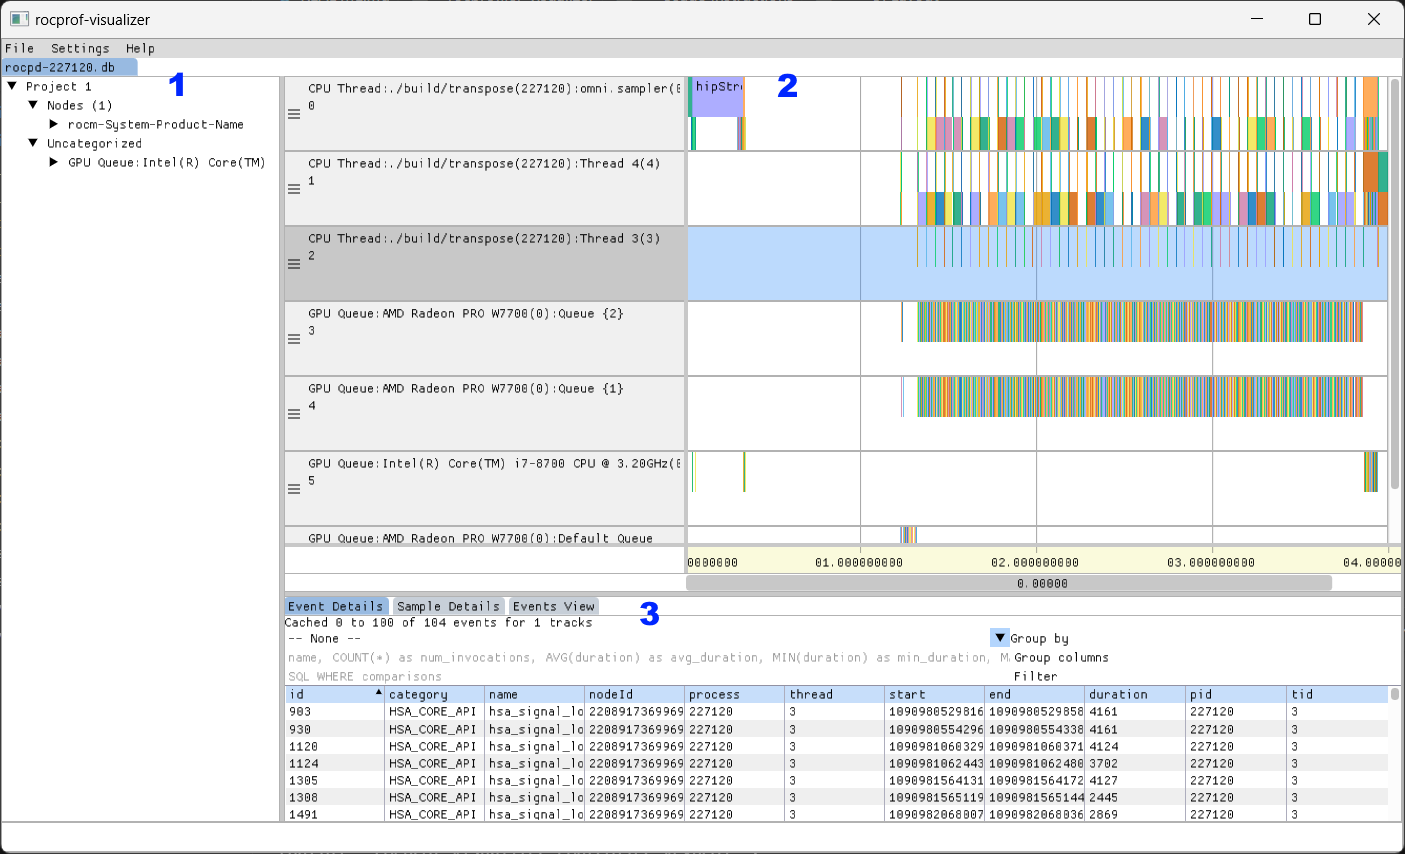
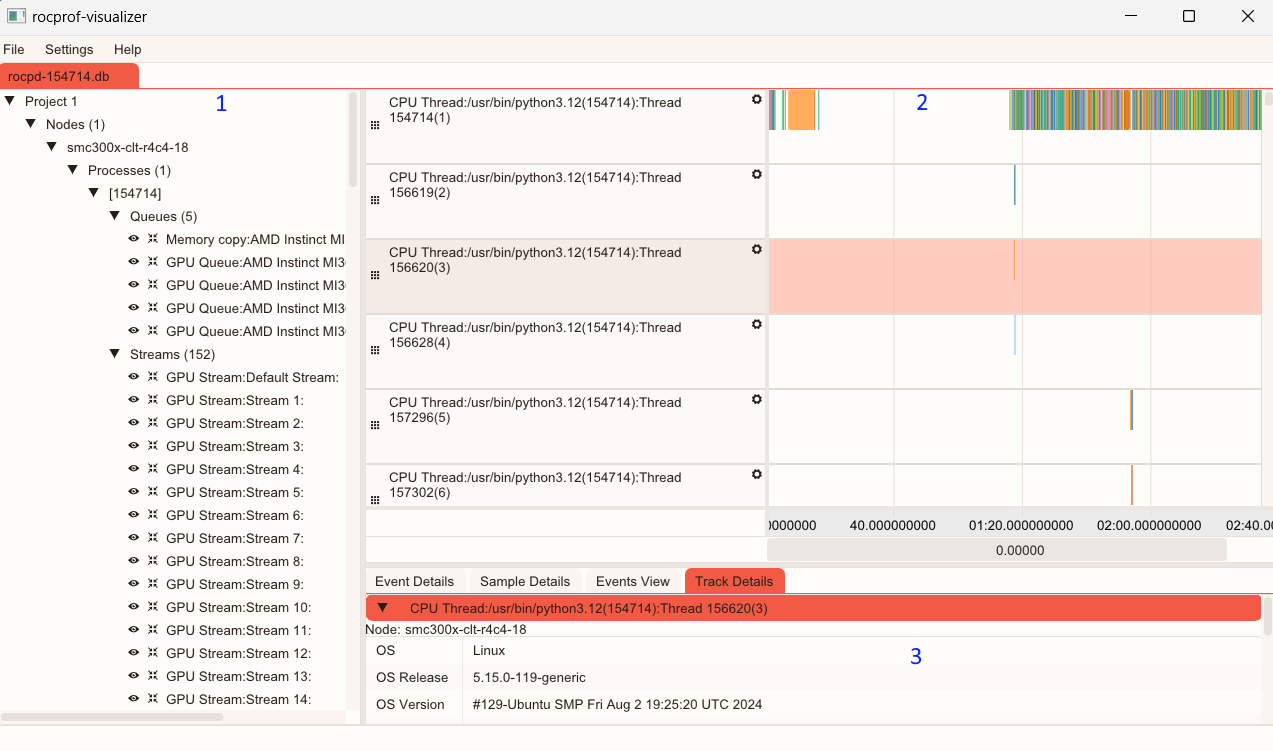
Updated readme.  Added change notes.

diff --git a/README.md b/README.md
@@ -7,7 +7,7 @@ Currently the application is deployed as a single executable.  No installation n
 ## Usage Instructions
 
 ### Open a Trace
-Use the `file` -> `open` menu to open a trace file.
+Use the `File` -> `Open` menu to open a trace file.
 
 Supported formats are *.db* and *.rpd* trace files.
 
@@ -21,8 +21,9 @@ Supported formats are *.db* and *.rpd* trace files.
 ### Controls / Interactions
 1. System Topology Tree
     - Click to expand / collapse the tree nodes.
-    - The leaf nodes contain additional options for the related track.
-    - Click the `Go To Track` button to navigate to this track in the Timeline View.
+    - Click on the track node to select it.
+    - Click the eye icon to show or hide the track
+    - Click the `Scroll To Track` button to navigate to this track in the Timeline View.
 
 2. Timeline View
     - The timeline view has two areas, the grey *Description* area and white *Graph* area where events and counter graphs are plotted.
@@ -35,11 +36,13 @@ Supported formats are *.db* and *.rpd* trace files.
     - Double clicking on the *Graph* will start a *Time Range Filter* selection.  Double click again to finish the selection.  Double click again to clear the selection.
     - Tracks can be resized by hovering over and dragging the separator lines between tracks.
     - Tracks can be reordered by clicking and dragging the grip on left side of the *Description* area.
+    - When there is an active *Time Range Filter* the trace can be trimmed using the `File->Save Selection` menu option.  This will create a new trace file containing only the events in the selection zone.
 
 3. Advanced Details Area
     - Use the tabs to see different detailed information events and tracks
-    - The *Event Details* and *Sample Details* provide a list (table) of the events or samples contained the selected track or tracks. 
+    - The *Event Details* and *Sample Details* tabs provide a list (table) of the events or samples contained the selected track or tracks. 
     - In the *Event Details* tab there is a drop down box that allows the events grouped by a column to display additional metrics
     - Both the *Event Details* and *Sample Details* provide a text input box that can be used to filter the data.  Ex: `min_duration > 2000` will filter all events shorter than 2000 ns.
     - Setting a *Time Range Filter* using the timeline view will filter the rows displayed in the table to be contained within the selected time range.
-    - The *Event Details* view show detailed information about currently selected event in the timeline view. Currently flow arrow information will only be updated if this tab is active.
+    - The *Events View* tab shows detailed information about currently selected event in the timeline view.
+    - The *Track Details* tab shows additional information about the currently selected tracks.

diff --git a/CHANGES.md b/CHANGES.md
@@ -1,0 +1,30 @@
+## 0.1.2
+
+### Features and Improvements
+
+- **Topology Tree and Streams**
+  - Added streams to the topology tree.
+  - Added track details tab where additional track topology information is displayed.
+  - Sidebar and track details have been reorganized for easier navigation and analysis.
+  - Track selection reflected in its sidebar node.
+- **Stream and Memory Operation Tracks**: Introduced new tracks for streams and memory operations.
+- **Trace Trimming**: Added feature for allowing traces to a be trimmed to a selected time range.
+- **UI and Usability Enhancements**:
+  - Added a confirmation dialog for critical actions.
+  - Added context menu to tables for copying row data to clipboard.
+  - Added new button icons.
+  - Improved color themes, dark mode, and visual polish throughout the UI.
+  - Use better looking built-in OS fonts.
+  - Adaptively scale fonts based on DPI scale settings.
+
+### Bug Fixes
+
+- Fixed occasional crashes when fetching call stack traces.
+- Fixed crash when opening files with missing extended track data.
+- Resolved issues with table desynchronization when tracks are quickly unselected.
+- Fixed disappearing track issue when using go to track feature on side bar.
+- Fixed crash when opening incompatible files.
+
+## 0.1.1
+
+- Initial Pre-alpha build
